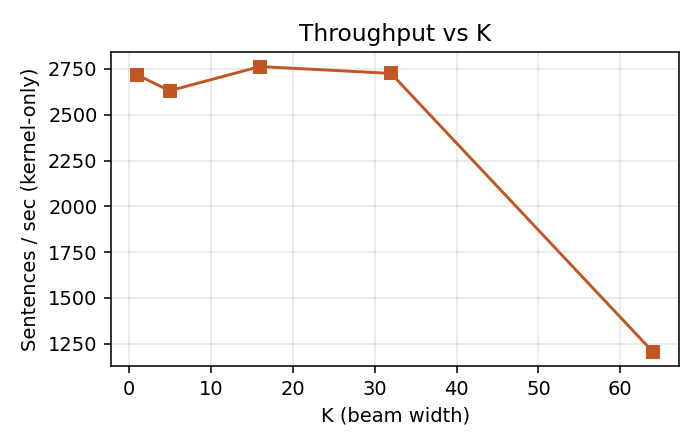
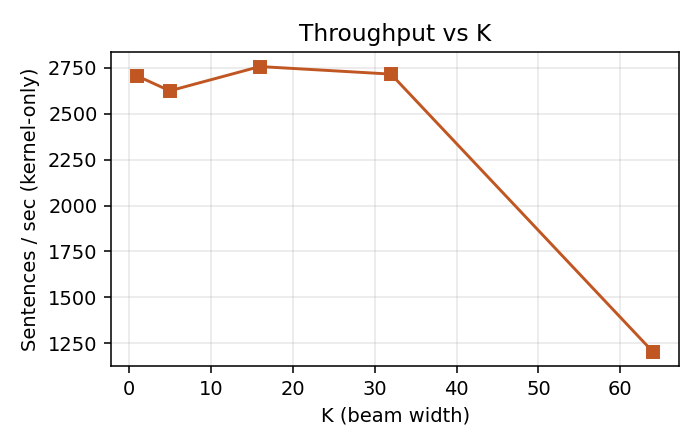
Changed md file accordingly

diff --git a/cushr_gpu/KBEST_BENCHMARK.md b/cushr_gpu/KBEST_BENCHMARK.md
@@ -8,11 +8,11 @@ Warp-level k-best merge kernel (`kbest_merge_level`) benchmarked over the SIGHUM
 
 | K | sent/sec (kernel) | µs/sent (kernel) | µs/sent (loop) | table MB | used MB |
 |---|------------------:|-----------------:|---------------:|---------:|--------:|
-| 1 | 2717 | 368.0 | 497.4 | 68.5 | 72.0 |
-| 5 | 2631 | 380.1 | 508.4 | 273.9 | 276.0 |
-| 16 | 2763 | 361.9 | 488.6 | 838.9 | 840.0 |
-| 32 | 2726 | 366.9 | 492.9 | 1660.7 | 1662.0 |
-| 64 | 1204 | 830.3 | 956.0 | 3304.3 | 3306.0 |
+| 1 | 2706 | 369.6 | 499.8 | 68.5 | 72.0 |
+| 5 | 2625 | 381.0 | 510.7 | 273.9 | 276.0 |
+| 16 | 2757 | 362.7 | 491.0 | 838.9 | 840.0 |
+| 32 | 2716 | 368.2 | 495.5 | 1660.7 | 1662.0 |
+| 64 | 1202 | 831.8 | 958.3 | 3304.3 | 3306.0 |
 
 ## Top-K recall vs gold
 
